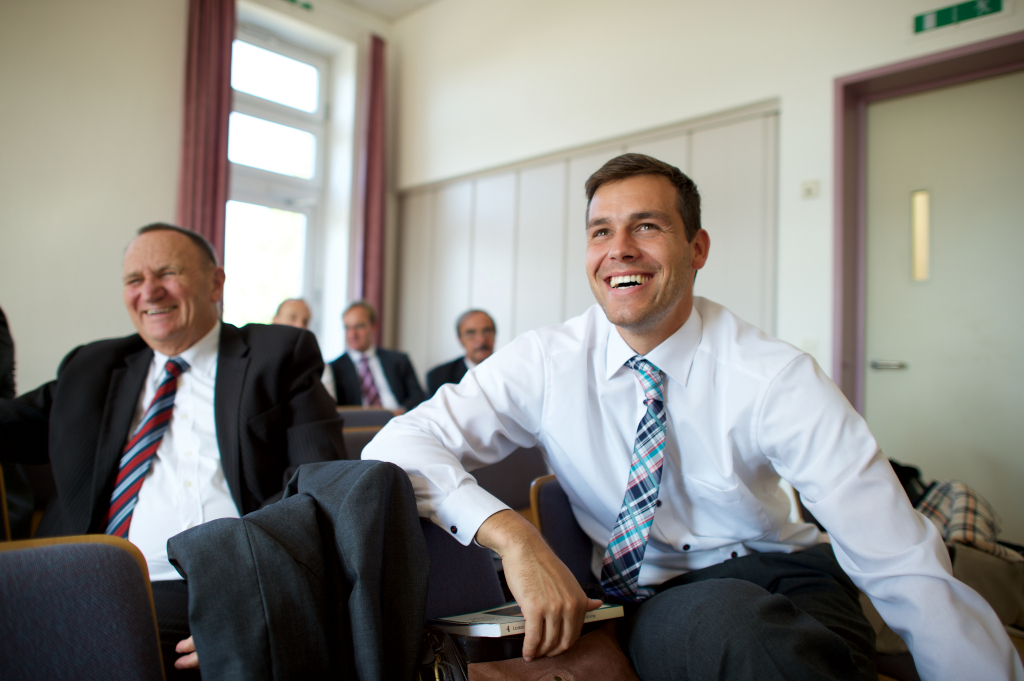
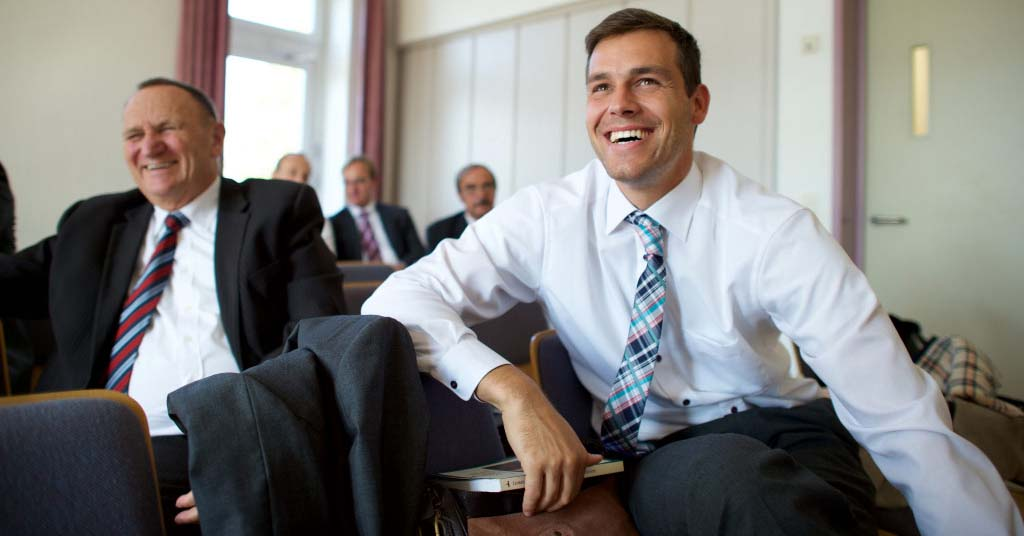
final project changes

diff --git a/aboutus.html b/aboutus.html
@@ -10,7 +10,7 @@
   <body>
     <header>
       <div id="headerimg">
-        <img src="images/gift-of-the-holy-ghost-cropped-525.png" alt="Gift of the Holy Ghost Ordinance">
+        <img src="images/gift-of-the-holy-ghost-cropped-525.jpg" alt="Gift of the Holy Ghost Ordinance">
         <img id = "icon" src="images/CalledToServeIcon.png" alt="Called To Serve Icon">
       </div>
       <h1 class="mainTitle">Church Organization Resources</h1>
@@ -51,11 +51,14 @@
             <b>Site Administrator:</b> Steven Milton <br>
             <b>Last Updated:</b> 3/25/2019
           </p>
+          <img id=author src="images/ME-2.jpg" alt="Web Administrator - Steven Milton">
           <p class="col2">
             <b>Mission:</b> The mission of this site is to provide members of the Church of Jesus Christ of Latter-Day Saints with the tools necessary to be successful in their callings.  We seek out resources that can be used
             to understand how to serve in the specific callings of the Church that will help those serving to help build
             the Kingdom of God on the earth.
-          </p>
+          <br><br>
+          Any who like to contribute materials to the site can contact the site administrator at
+          smilton81@gmail.com.  All contributions will be considered the intellectual property of the Called To Serve website. Thank you for your interest. </p>
         </div>
       </article>
     </main>

diff --git a/reliefsociety.html b/reliefsociety.html
@@ -10,7 +10,7 @@
   <body>
     <header>
       <div id="headerimg">
-        <img src="images/gift-of-the-holy-ghost-cropped-525.png" alt="Gift of the Holy Ghost Ordinance">
+        <img src="images/gift-of-the-holy-ghost-cropped-525.jpg" alt="Gift of the Holy Ghost Ordinance">
         <img id = "icon" src="images/CalledToServeIcon.png" alt="Called To Serve Icon">
       </div>
       <h1 class="mainTitle">Church Organization Resources</h1>
@@ -43,9 +43,9 @@
       </nav>
     </header>
     <main>
+      <img class="eqimage" src='images/philippines-visiting-teachers-1346803-tablet.jpg' alt="Relief Society Sisters">
       <article>
         <h2>Relief Society</h2>
-        <img src='images/philippines-visiting-teachers-1346803-tablet.jpg' alt="Relief Society Sisters">
         <div id="cols">
           <p class="col1">
             As stated in Book 2 of the Handbook of Instructions section 9.1.1, "Relief Society helps prepare women for the blessings of eternal life as they increase faith in Heavenly Father and Jesus Christ and His Atonement; strengthen individuals, families, and homes through ordinances and covenants; and work in unity to help those in need. Relief Society accomplishes these purposes through Sunday meetings, other Relief Society meetings, service as ministering sisters, and welfare and compassionate service." The Relief Society’s motto is “Charity never faileth”.

diff --git a/eldersquorum.html b/eldersquorum.html
@@ -10,7 +10,7 @@
   <body>
     <header>
       <div id="headerimg">
-        <img src="images/gift-of-the-holy-ghost-cropped-525.png" alt="Gift of the Holy Ghost Ordinance">
+        <img id src="images/gift-of-the-holy-ghost-cropped-525.jpg" alt="Gift of the Holy Ghost Ordinance">
         <img id = "icon" src="images/CalledToServeIcon.png" alt="Called To Serve Icon">
       </div>
       <h1 class="mainTitle">Church Organization Resources</h1>
@@ -43,9 +43,9 @@
       </nav>
     </header>
     <main>
+      <img class="eqimage" src='images/german-ward-elders-quorum-1856895-tablet.jpg' alt='Elders Quorum picture'>
       <article>
         <h2>Elder's Quorum</h2>
-        <img src='images/german-ward-elders-quorum-1856895-tablet.jpg' alt='Elders Quorum picture'>
         <div id="cols">
           <p class="col1">
             As stated in D&amp;C 20:38-45 "The duty of the elders, priests, teachers, deacons, and members of the church of Christ—An apostle is an elder, and it is his calling to baptize;

diff --git a/finalProject.css b/finalProject.css
@@ -1,11 +1,27 @@
 body {
   font-family: 'Nunito', sans-serif;
+  box-sizing: border-box;
+  background-color: burlywood;
 }
 
 #headerimg {
   width: 100%;
   text-align: center;
   margin: auto;
+}
+
+#author {
+  position: relative;
+  top: 10px;
+  right: 20px;
+  height: 200px;
+  width: auto;
+}
+
+.eqimage {
+  display: block;
+  width: 400px;
+  margin: 0 auto;
 }
 
 .navbar {
@@ -43,7 +59,7 @@ body {
   color:#ffffff;
   display: block;
   transition: .3s background-color;
-  padding:0 24px;
+  padding:0 15px;
 }
 
 .navbar ul li a:hover {
@@ -122,7 +138,6 @@ h6{
 }
 
 article h2 {
-
   text-align: center;
 }
 
@@ -140,6 +155,7 @@ footer {
   background-color: #9BBDF9;
   color: #B95F89;
   text-align: center;
+  font-weight: 900;
 }
 
 .clearfix::after {
@@ -164,7 +180,6 @@ form textarea {
 }
 
 article img {
-  width: 100%;
-  margin: auto;
+  max-width: 40%;
   height: auto;
 }

diff --git a/contact.html b/contact.html
@@ -10,7 +10,7 @@
   <body>
     <header>
       <div id="headerimg">
-        <img src="images/gift-of-the-holy-ghost-cropped-525.png" alt="Gift of the Holy Ghost Ordinance">
+        <img src="images/gift-of-the-holy-ghost-cropped-525.jpg" alt="Gift of the Holy Ghost Ordinance">
         <img id = "icon" src="images/CalledToServeIcon.png" alt="Called To Serve Icon">
       </div>
       <h1 class="mainTitle">Church Organization Resources</h1>

diff --git a/index.html b/index.html
@@ -10,7 +10,7 @@
   <body>
     <header>
       <div id="headerimg">
-        <img src="images/gift-of-the-holy-ghost-cropped-525.png" alt="Gift of the Holy Ghost Ordinance">
+        <img src="images/gift-of-the-holy-ghost-cropped-525.jpg" alt="Gift of the Holy Ghost Ordinance">
         <img id = "icon" src="images/CalledToServeIcon.png" alt="Called To Serve Icon">
       </div>
       <h1 class="mainTitle">Church Organization Resources</h1>

diff --git a/primary.html b/primary.html
@@ -10,7 +10,7 @@
   <body>
     <header>
       <div id="headerimg">
-        <img src="images/gift-of-the-holy-ghost-cropped-525.png" alt="Gift of the Holy Ghost Ordinance">
+        <img src="images/gift-of-the-holy-ghost-cropped-525.jpg" alt="Gift of the Holy Ghost Ordinance">
         <img id = "icon" src="images/CalledToServeIcon.png" alt="Called To Serve Icon">
       </div>
       <h1 class="mainTitle">Church Organization Resources</h1>

diff --git a/sundayschool.html b/sundayschool.html
@@ -10,7 +10,7 @@
   <body>
     <header>
       <div id="headerimg">
-        <img src="images/gift-of-the-holy-ghost-cropped-525.png" alt="Gift of the Holy Ghost Ordinance">
+        <img src="images/gift-of-the-holy-ghost-cropped-525.jpg" alt="Gift of the Holy Ghost Ordinance">
         <img id = "icon" src="images/CalledToServeIcon.png" alt="Called To Serve Icon">
       </div>
       <h1 class="mainTitle">Church Organization Resources</h1>

diff --git a/youngmen.html b/youngmen.html
@@ -10,7 +10,7 @@
   <body>
     <header>
       <div id="headerimg">
-        <img src="images/gift-of-the-holy-ghost-cropped-525.png" alt="Gift of the Holy Ghost Ordinance">
+        <img src="images/gift-of-the-holy-ghost-cropped-525.jpg" alt="Gift of the Holy Ghost Ordinance">
         <img id = "icon" src="images/CalledToServeIcon.png" alt="Called To Serve Icon">
       </div>
       <h1 class="mainTitle">Church Organization Resources</h1>

diff --git a/youngwomen.html b/youngwomen.html
@@ -10,7 +10,7 @@
   <body>
     <header>
       <div id="headerimg">
-        <img src="images/gift-of-the-holy-ghost-cropped-525.png" alt="Gift of the Holy Ghost Ordinance">
+        <img src="images/gift-of-the-holy-ghost-cropped-525.jpg" alt="Gift of the Holy Ghost Ordinance">
         <img id = "icon" src="images/CalledToServeIcon.png" alt="Called To Serve Icon">
       </div>
       <h1 class="mainTitle">Church Organization Resources</h1>
